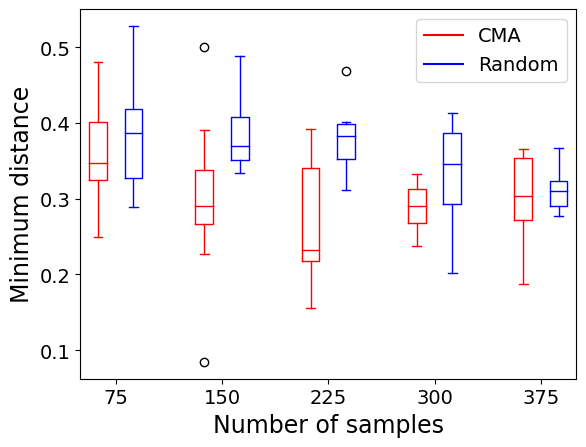
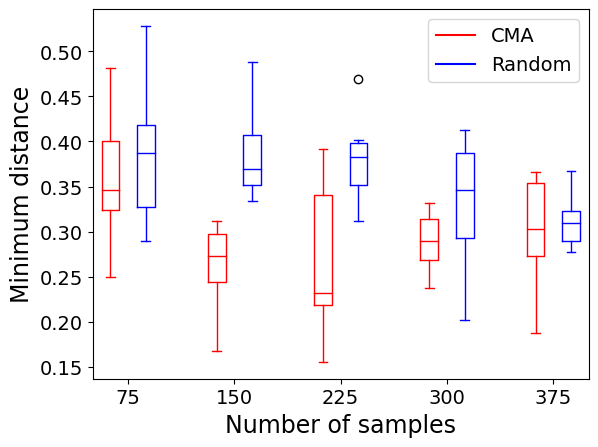
update lunar ppo

diff --git a/scripts/run_lunar_lander_ppo.py b/scripts/run_lunar_lander_ppo.py
@@ -27,7 +27,7 @@ phi = SafetyProp()
 prob = Problem(env, agent, phi, L2Norm(env))
 sys_eval = CMASystemEvaluator(
     0.4, phi, 
-    {'timeout': 1, 'restarts': 1, 'episode_len': 300, 'evals': 40}
+    {'timeout': 1, 'restarts': 0, 'episode_len': 300, 'evals': 40}
 )
 
 # from datetime import datetime
@@ -76,7 +76,7 @@ plt.savefig('gifs/lunar-lander-ppo/fig-boxplot.png', bbox_inches='tight')
 
 sys_eval3 = ExpectationSysEvaluator(
     phi,
-    {'timeout': 1, 'restarts': 1, 'episode_len': 300, 'evals': 40}
+    {'timeout': 1, 'restarts': 0, 'episode_len': 300, 'evals': 40}
 )
 
 # from datetime import datetime
